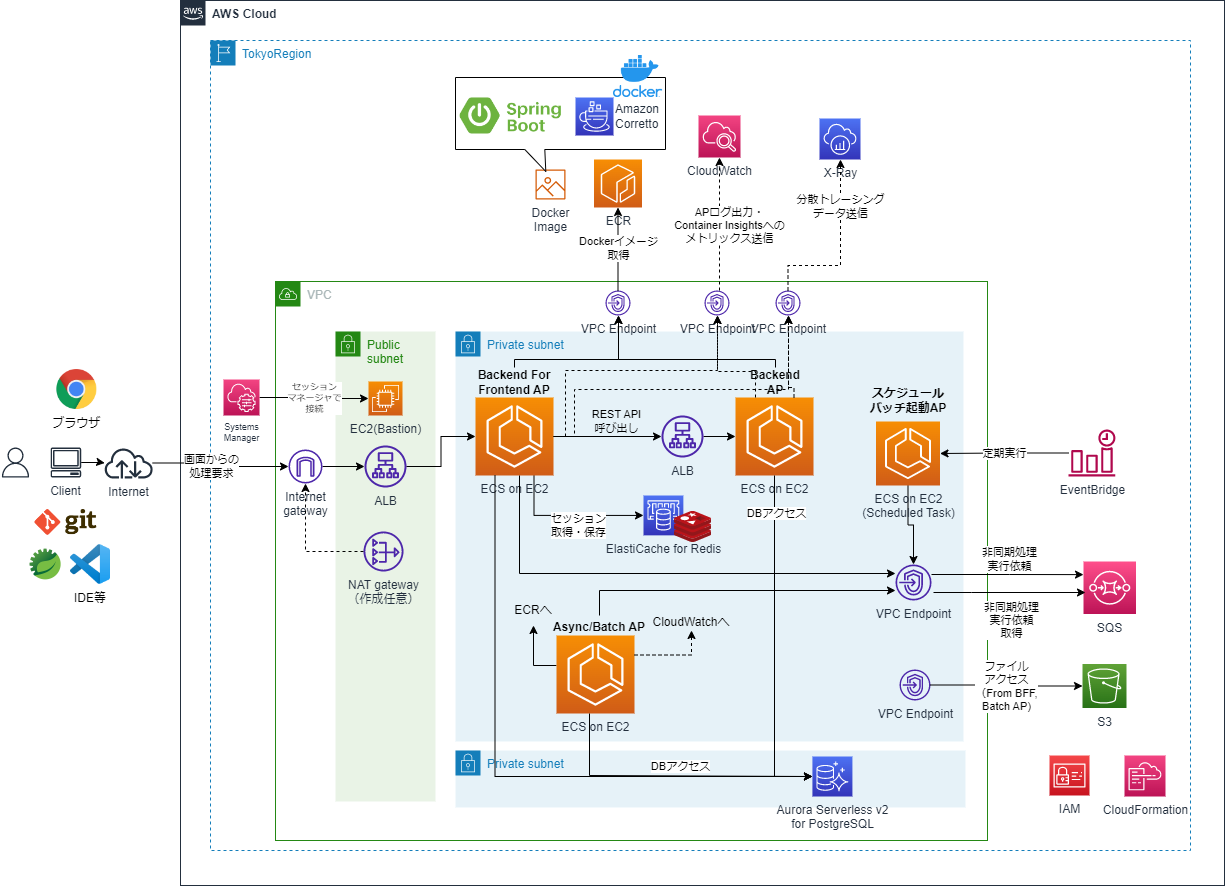
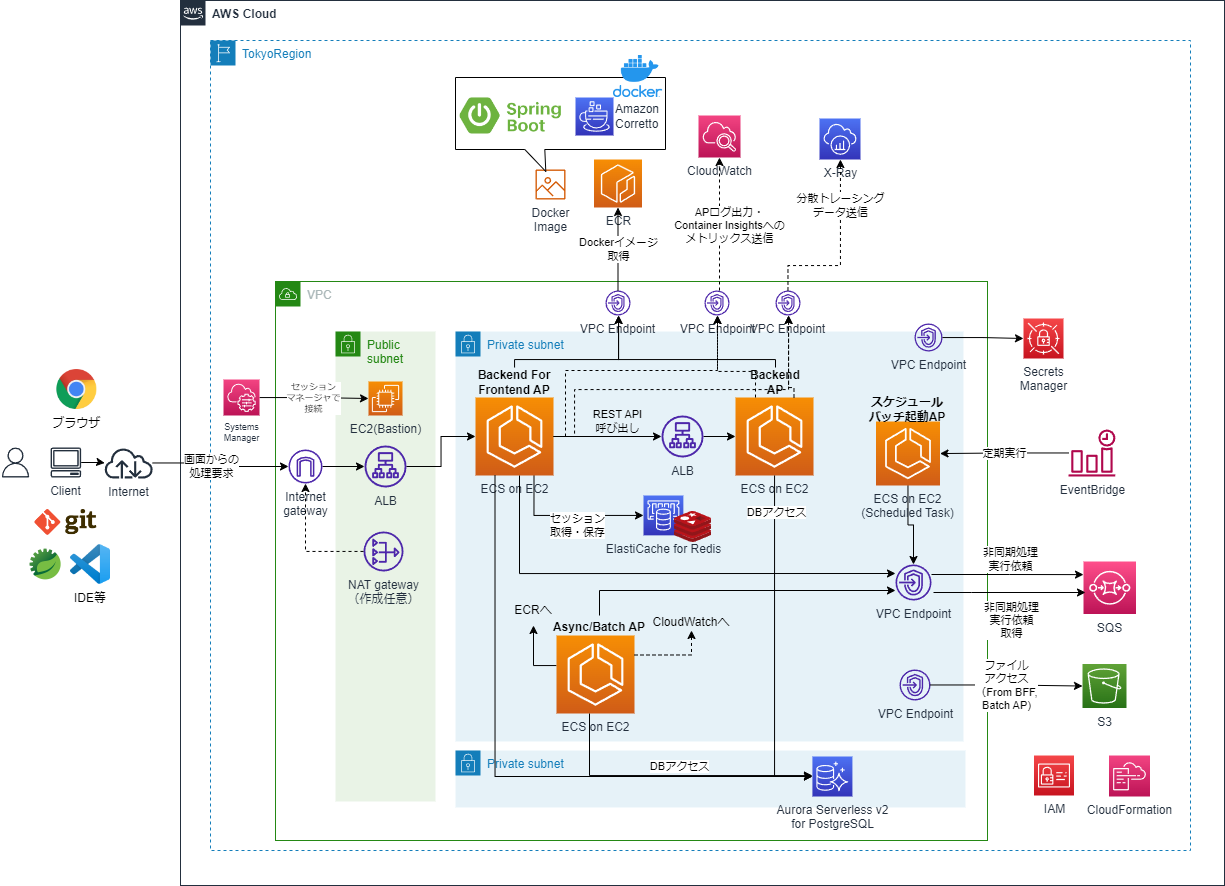
SecretsManagerの対応

diff --git a/README.md b/README.md
@@ -48,7 +48,7 @@
   * X-Rayによる可視化
 ![X-Ray可視化](img/xray-visualization.png)
 * オートスケーリング
-  * 平均CPU使用率のターゲット追跡スケーリングポリシーによる例に対応している。
+    * 平均CPU使用率のターゲット追跡スケーリングポリシーによる例に対応している。
 ![オートスケーリング](img/autoscaling.png)
 
 ## 事前準備
@@ -238,7 +238,7 @@ aws cloudformation validate-template --template-body file://cfn-ecache-redis.yam
 aws cloudformation create-stack --stack-name ECS-ECACHE-Stack --template-body file://cfn-ecache-redis.yaml
 ```
 ## RDB環境構築
-### 1. Aurora Serverless v2 for PostgreSQLのクラスタ作成
+### 1. Aurora Serverless v2 for PostgreSQLのクラスタおよびSecrets Managerの作成
 * 各サンプルAPではRDBでデータ管理するため、Aurora Serverless v2 for PostgreSQLを作成する。  
     * 作成にしばらく時間がかかる。
 ```sh
@@ -292,7 +292,7 @@ aws cloudformation create-stack --stack-name ECS-CLUSTER-Stack --template-body f
 * awslogsドライバのタスク定義を作成
 ```sh
 aws cloudformation validate-template --template-body file://cfn-ecs-task.yaml
-aws cloudformation create-stack --stack-name ECS-TASK-Stack --template-body file://cfn-ecs-task.yaml --parameters ParameterKey=DBUsername,ParameterValue=postgres ParameterKey=DBPassword,ParameterValue=password
+aws cloudformation create-stack --stack-name ECS-TASK-Stack --template-body file://cfn-ecs-task.yaml
 ```
 
 * AP内のデータ保存用のS3バケット名を変えるには、それぞれのcfnスタック作成時のコマンドでパラメータを指定する
@@ -302,7 +302,7 @@ aws cloudformation create-stack --stack-name ECS-TASK-Stack --template-body file
 * awsfirelensドライバのタスク定義を作成
 ```sh
 aws cloudformation validate-template --template-body file://cfn-ecs-task-firelens.yaml
-aws cloudformation create-stack --stack-name ECS-TASK-Stack --template-body file://cfn-ecs-task-firelens.yaml --parameters ParameterKey=DBUsername,ParameterValue=postgres ParameterKey=DBPassword,ParameterValue=password
+aws cloudformation create-stack --stack-name ECS-TASK-Stack --template-body file://cfn-ecs-task-firelens.yaml
 ```
 
 * AP内のデータ保存用のS3バケット名を変えるには、それぞれのcfnスタック作成時のコマンドでパラメータを指定する
